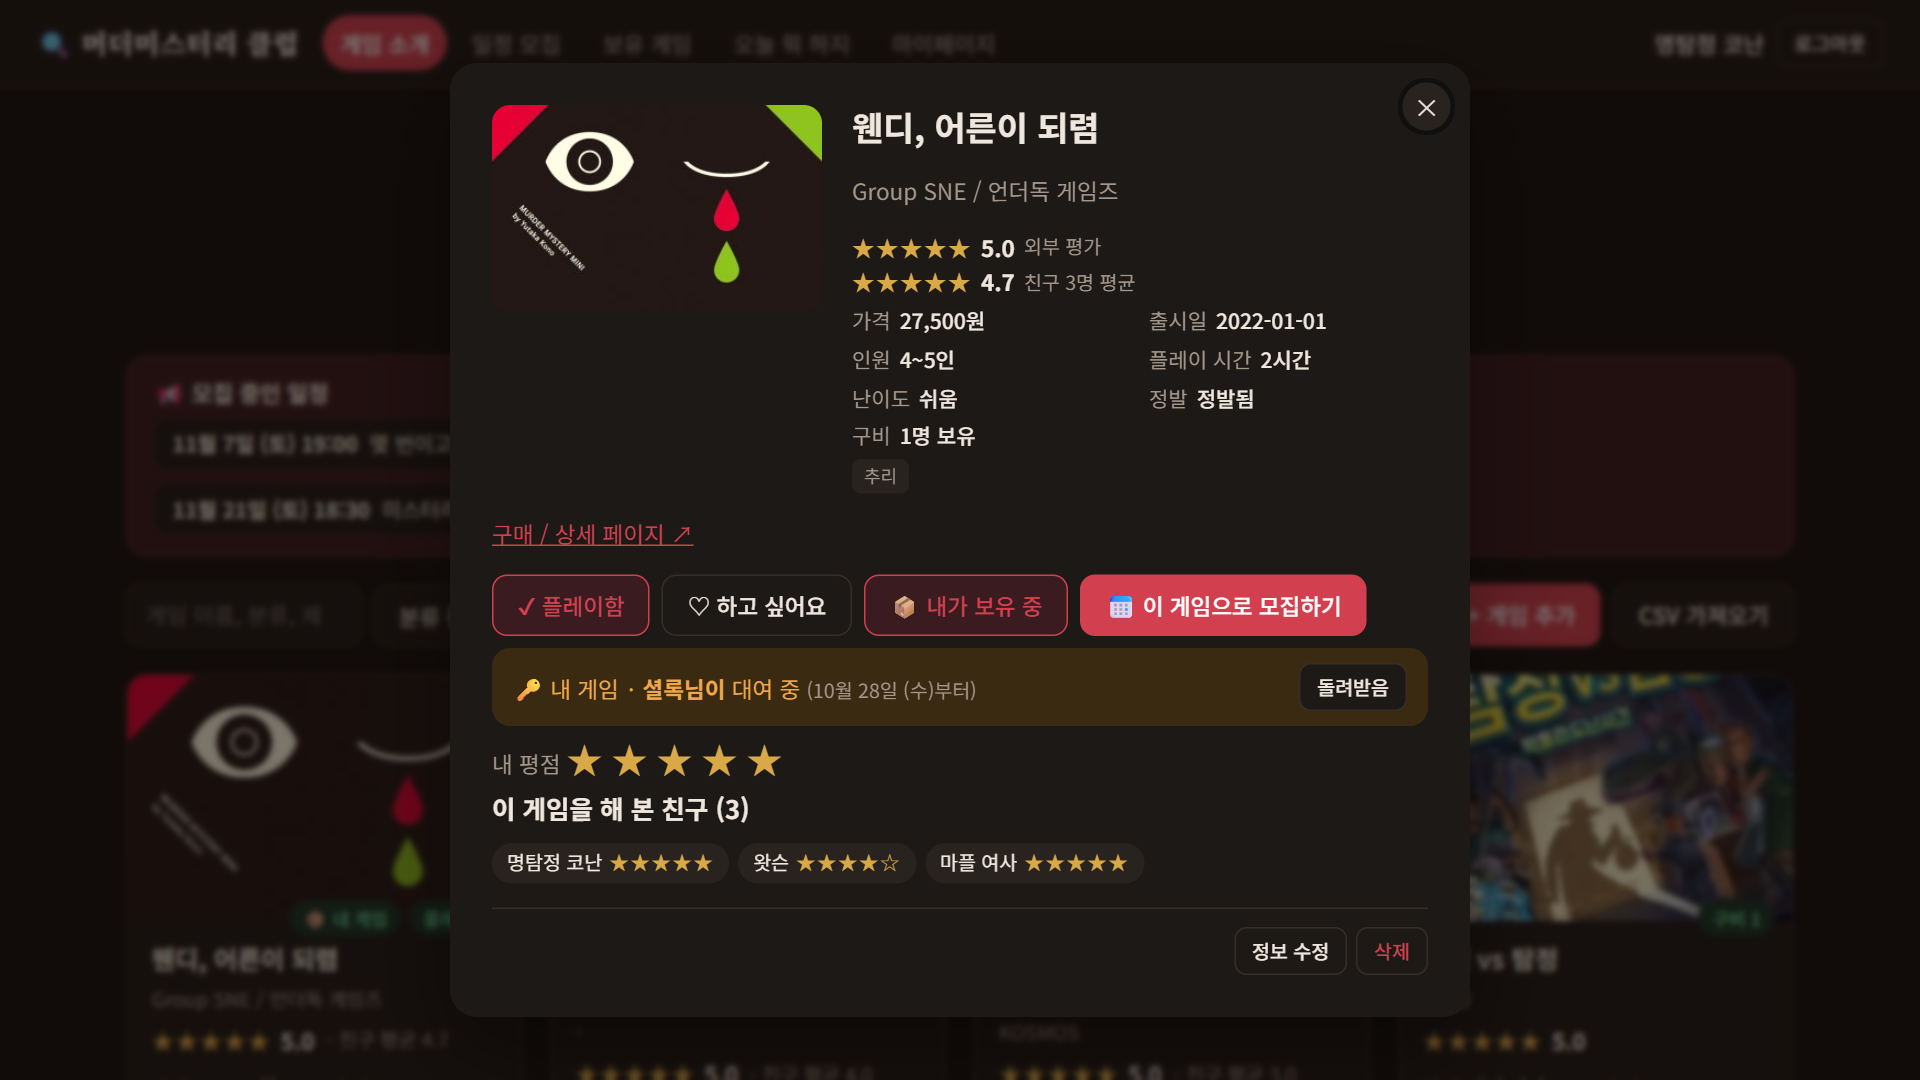
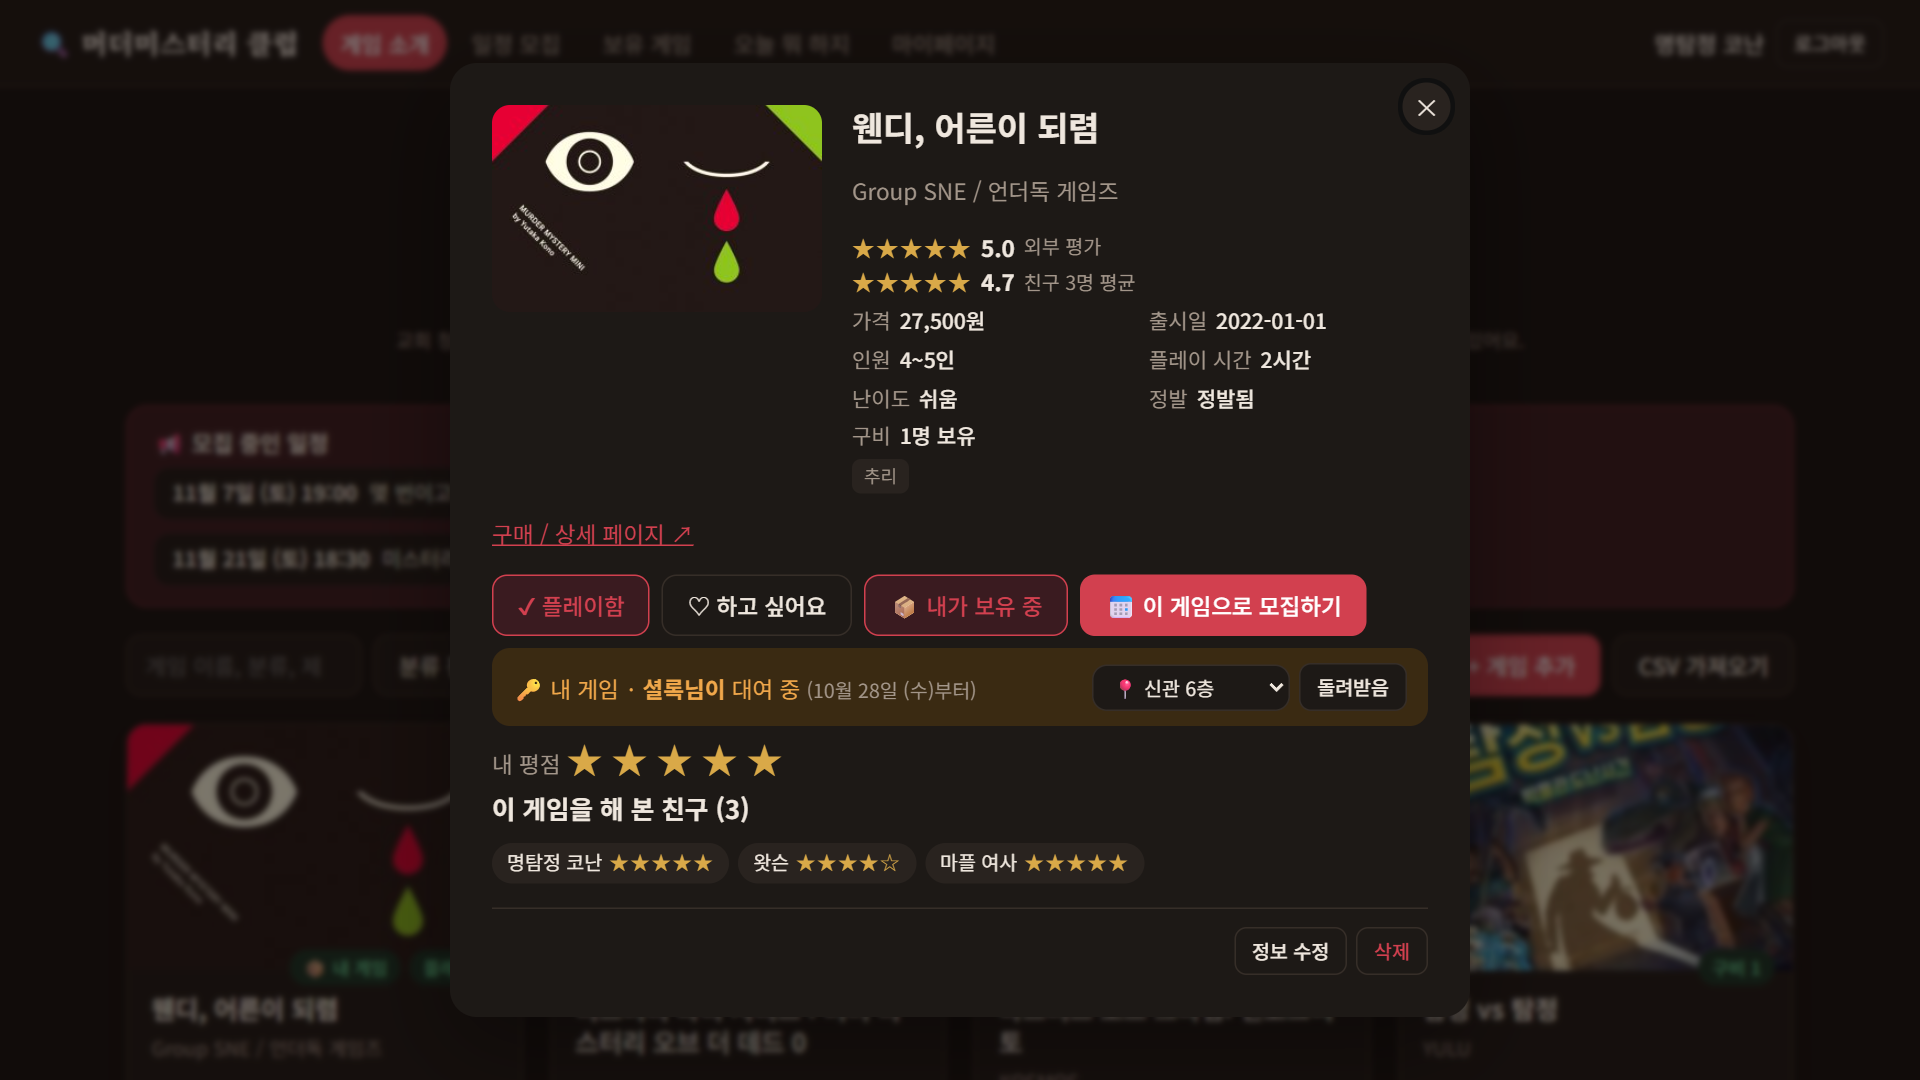
Refresh feature docs and screenshots for storage places and the audience note
Retake the games, detail and library screenshots with demo storage
locations, re-place their guide pins, describe the storage picker and
per-place counts and the invite-only audience line, and mark the PRD's
owned-games question as answered.

diff --git a/feature-guide.html b/feature-guide.html
@@ -189,23 +189,23 @@ footer a { color: var(--ink); }
         <div class="frame-bar"><i></i><i></i><i></i><span>mahamuder.web.app/games</span></div>
         <div class="shot">
           <img src="shots/games.png" alt="게임 소개 화면: 모집 중인 일정 배너, 검색과 필터, 게임 카드 목록" width="1920" height="1080">
-          <span class="pin" style="left:8.5%;top:36.3%">1</span>
-          <span class="pin" style="left:7%;top:56.9%">2</span>
-          <span class="pin" style="left:35.3%;top:57%">3</span>
-          <span class="pin" style="left:79.2%;top:56.9%">4</span>
-          <span class="pin" style="left:88.7%;top:56.9%">5</span>
-          <span class="pin" style="left:18%;top:85%">6</span>
-          <span class="pin" style="left:20.1%;top:96.3%">7</span>
+          <span class="pin" style="left:21%;top:31.5%">1</span>
+          <span class="pin" style="left:8.5%;top:40.9%">2</span>
+          <span class="pin" style="left:7%;top:61.5%">3</span>
+          <span class="pin" style="left:35.3%;top:61.6%">4</span>
+          <span class="pin" style="left:79.2%;top:61.5%">5</span>
+          <span class="pin" style="left:88.7%;top:61.5%">6</span>
+          <span class="pin" style="left:18%;top:89.6%">7</span>
         </div>
       </div>
       <ol class="notes">
+        <li><div><b>누구를 위한 사이트인지</b><span>교회 청년 모임 친구들끼리 쓰는 초대제 사이트라는 안내. 게임 정보는 누구나, 기록·일정·대여는 초대받은 회원만 써요.</span></div></li>
         <li><div><b>모집 중인 일정</b><span>다가오는 모임이 맨 위에 떠요. 누르면 공지로 이동해요.</span></div></li>
         <li><div><b>검색·필터·정렬</b><span>이름·분류·제작사 검색, 분류·인원·구비·정발 필터, 평점순·최신순·가격순·친구 플레이순·이름순. 인원에는 10명 이상·인원 미정도 있어요.</span></div></li>
         <li><div><b>분류 안내</b><span>머더미스터리(역할극)·추리(협력 추리)·소셜 디덕션(마피아류). 배경 태그는 스포일러라 보여 주지 않아요.</span></div></li>
         <li><div><b>게임 추가</b><span>회원은 누구나 새 게임을 등록할 수 있어요.</span></div></li>
         <li><div><b>CSV 가져오기</b><span>게임 목록 CSV에서 사이트에 없는 게임만 골라 한꺼번에 등록해요.</span></div></li>
-        <li><div><b>내 상태 배지</b><span>내 게임·플레이함·선호·구비 수가 표지 위에 붙어요.</span></div></li>
-        <li><div><b>외부 평가와 친구 평균</b><span>별점 옆에 친구들이 매긴 평균이 함께 보여요.</span></div></li>
+        <li><div><b>내 상태 배지 · 친구 평균</b><span>내 게임·플레이함·선호·구비 수가 표지 위에 붙고, 카드 아래 별점 옆에 친구들이 매긴 평균이 함께 보여요.</span></div></li>
       </ol>
     </div>
   </section>
@@ -227,10 +227,11 @@ footer a { color: var(--ink); }
           <span class="pin" style="left:45.9%;top:44.1%">3</span>
           <span class="pin" style="left:29.7%;top:56%">4</span>
           <span class="pin" style="left:63.7%;top:56%">5</span>
-          <span class="pin" style="left:70.5%;top:63.6%">6</span>
-          <span class="pin" style="left:42.5%;top:70.6%">7</span>
-          <span class="pin" style="left:26.1%;top:74.9%">8</span>
-          <span class="pin" style="left:67.2%;top:88%">9</span>
+          <span class="pin" style="left:36%;top:63.7%">6</span>
+          <span class="pin" style="left:62%;top:63.7%">7</span>
+          <span class="pin" style="left:42.5%;top:70.6%">8</span>
+          <span class="pin" style="left:26.1%;top:74.9%">9</span>
+          <span class="pin" style="left:67.2%;top:88%">10</span>
         </div>
       </div>
       <ol class="notes">
@@ -240,6 +241,7 @@ footer a { color: var(--ink); }
         <li><div><b>플레이함 · 하고 싶어요 · 보유</b><span>한 번 눌러 내 기록에 남겨요.</span></div></li>
         <li><div><b>이 게임으로 모집하기</b><span>바로 모집 공지 작성으로 넘어가요.</span></div></li>
         <li><div><b>대여 상태</b><span>내 게임인지, 지금 빌릴 수 있는지, 누가 언제부터 빌려 갔는지. 주인은 돌려받음으로 정리해요.</span></div></li>
+        <li><div><b>보관 위치</b><span>그 게임을 교회 어디에 두었는지(신관 5층 · 신관 6층 · 본관 3층, 직접 입력도 가능). 옮겼다면 회원 누구나 바로 바꿔요.</span></div></li>
         <li><div><b>내 평점</b><span>별 다섯 개로 매겨요.</span></div></li>
         <li><div><b>이 게임을 해 본 친구</b><span>누가 해 봤고 몇 점을 줬는지. 같이 할 사람을 고를 때 참고해요.</span></div></li>
         <li><div><b>정보 수정 · 삭제</b><span>수정은 회원 누구나, 삭제는 등록한 사람만. 기록이나 공지가 걸린 게임은 지울 수 없어요.</span></div></li>
@@ -287,24 +289,28 @@ footer a { color: var(--ink); }
       <div class="label">Screen 04</div>
       <h2>보유 게임과 대여</h2>
       <p class="route">/library</p>
-      <p>누가 어떤 게임을 가졌고 지금 누가 빌려 갔는지 한눈에 봐요.</p>
+      <p>누가 어떤 게임을 가졌고, 교회 어디에 두었고, 지금 누가 빌려 갔는지 한눈에 봐요.</p>
     </div>
     <div class="screen" data-screen>
       <div class="frame">
         <div class="frame-bar"><i></i><i></i><i></i><span>mahamuder.web.app/library</span></div>
         <div class="shot">
-          <img src="shots/library.png" alt="보유 게임 화면: 요약 숫자, 대여 중 목록, 친구별 보유 목록" width="1920" height="1080">
+          <img src="shots/library.png" alt="보유 게임 화면: 요약 숫자, 위치별 개수, 대여 중 목록과 원래 위치, 친구별 보유 목록" width="1920" height="1080">
           <span class="pin" style="left:39.5%;top:36.9%">1</span>
-          <span class="pin" style="left:8.7%;top:50.7%">2</span>
-          <span class="pin" style="left:88.2%;top:69.3%">3</span>
-          <span class="pin" style="left:59.8%;top:90.8%">4</span>
-          <span class="pin" style="left:86.9%;top:90.8%">5</span>
-          <span class="pin" style="left:21.2%;top:95.9%">6</span>
+          <span class="pin" style="left:8.7%;top:42.8%">2</span>
+          <span class="pin" style="left:8.7%;top:54.9%">3</span>
+          <span class="pin" style="left:74.2%;top:66.7%">4</span>
+          <span class="pin" style="left:88.2%;top:73.4%">5</span>
+          <span class="pin" style="left:60.7%;top:95%">6</span>
+          <span class="pin" style="left:86.9%;top:95%">7</span>
+          <span class="pin" style="left:8.7%;top:94.5%">8</span>
         </div>
       </div>
       <ol class="notes">
         <li><div><b>요약</b><span>보유 게임 · 대여 가능 · 대여 중 · 내가 빌린 게임 수.</span></div></li>
+        <li><div><b>위치별 개수</b><span>지금 교회 어디에 몇 개가 있는지. 빌려 간 게임은 빼고 세요.</span></div></li>
         <li><div><b>대여 중 목록</b><span>게임, 주인, 빌린 사람, 대여일과 며칠째인지.</span></div></li>
+        <li><div><b>보관 위치</b><span>원래 두는 곳. 게임을 옮겼다면 📍를 눌러 회원 누구나 바꿔요. 아래 친구별 목록에도 같은 칸이 있어요.</span></div></li>
         <li><div><b>반납하기 · 돌려받음</b><span>빌린 사람은 반납, 주인은 돌려받음으로 정리해요.</span></div></li>
         <li><div><b>내 보유 게임 추가</b><span>검색해서 가진 게임을 빠르게 골라요.</span></div></li>
         <li><div><b>미등록 친구 추가</b><span>가입하지 않은 친구의 게임도 등록해 빌릴 수 있게 해요.</span></div></li>

diff --git a/feature-overview.html b/feature-overview.html
@@ -111,7 +111,7 @@ footer { margin-top: 64px; color: var(--muted); font-size: 13px; border-top: 1px
 
   <section id="games">
     <h2>📚 게임 소개 <code>/games</code></h2>
-    <p class="lead">우리끼리 해 본, 하고 싶은 머더미스터리 게임 모음이에요.</p>
+    <p class="lead">우리끼리 해 본, 하고 싶은 머더미스터리 게임 모음이에요. 제목 아래에 “교회 청년 모임 친구들끼리 쓰는 초대제 사이트”라는 안내가 있어서 처음 온 사람도 누구를 위한 곳인지 알 수 있어요.</p>
     <div class="grid">
       <div class="card">
         <h3>검색과 필터</h3>
@@ -134,7 +134,7 @@ footer { margin-top: 64px; color: var(--muted); font-size: 13px; border-top: 1px
         <ul>
           <li>표지, 인원, 플레이 시간, 난이도, 가격, 출시일, 외부 평가</li>
           <li>친구들의 플레이 기록과 평점</li>
-          <li>누가 가지고 있는지, 지금 대여 중인지</li>
+          <li>누가 가지고 있는지, 교회 어디에 두었는지, 지금 대여 중인지</li>
         </ul>
       </div>
       <div class="card">
@@ -202,8 +202,17 @@ footer { margin-top: 64px; color: var(--muted); font-size: 13px; border-top: 1px
 
   <section id="library">
     <h2>📦 보유 게임과 대여 <code>/library</code></h2>
-    <p class="lead">친구들이 가진 게임과 대여 현황을 한눈에 봐요.</p>
+    <p class="lead">친구들이 가진 게임을 교회 어디에 두었는지, 지금 누가 빌려 갔는지 한눈에 봐요.</p>
     <div class="grid">
+      <div class="card">
+        <h3>보관 위치</h3>
+        <ul>
+          <li>게임 한 벌마다 📍 신관 5층 · 신관 6층 · 본관 3층, 또는 직접 입력</li>
+          <li>옮겼다면 회원 누구나 바로 바꿔요(게임 상세에서도 가능)</li>
+          <li>보유를 켜면 그 사람이 가장 많이 쓴 위치가 자동으로 들어가요</li>
+          <li>위에 위치별 개수가 보여요(빌려 간 게임은 빼고)</li>
+        </ul>
+      </div>
       <div class="card">
         <h3>친구별 보유 목록</h3>
         <p>회원과, 가입하지 않은 친구(<b>미등록 친구</b>)까지 누가 어떤 게임을 가졌는지 모아 봐요.</p>

diff --git a/README.md b/README.md
@@ -28,6 +28,7 @@ flowchart LR
 
 로그인하지 않아도 볼 수 있습니다. 위의 첫 스크린샷이 이 화면입니다.
 
+- **누구를 위한 사이트인지**: 제목 아래에 "교회 청년 모임 친구들끼리 쓰는 초대제 사이트"라는 안내가 있습니다(검색용 설명·FAQ에는 넣지 않음).
 - **모집 중인 일정**: 다가오는 모임이 맨 위에 보이고, 누르면 공지로 이동합니다.
 - **분류**: 게임마다 머더미스터리(역할극)·추리(협력 추리)·소셜 디덕션(마피아류) 중 하나가 붙습니다. 배경·세계관 태그는 스포일러가 될 수 있어서 보여 주지 않고, 분류 옆 **?** 버튼으로 세 분류의 뜻을 볼 수 있습니다.
 - **검색·필터·정렬**: 이름·분류·제작사로 검색하고, 분류·인원·구비·정발 여부로 거르고, 평점순·최신순·가격순·친구 플레이순·이름순으로 정렬합니다. 인원 필터에는 "10명 이상"과, 인원 정보가 없는 게임만 모아 보는 "인원 미정"이 있습니다.
@@ -44,6 +45,7 @@ flowchart LR
 - **플레이함 · 하고 싶어요 · 보유** 버튼으로 내 기록 남기기, 별 다섯 개로 내 평점 매기기
 - **이 게임으로 모집하기**로 바로 모집 공지 작성
 - 대여 상태: 내 게임인지, 지금 빌릴 수 있는지, 누가 빌려 갔는지
+- 📍 보관 위치: 보유자마다 그 게임을 교회 어디에 두었는지. 옮겼다면 회원 누구나 바로 바꿉니다.
 - 이 게임을 해 본 친구와 각자의 평점
 - 정보 수정은 회원 누구나, 삭제는 등록한 사람만 (플레이 기록·보유자·모집 공지가 걸린 게임은 삭제 불가)
 
@@ -64,12 +66,13 @@ flowchart LR
 
 ### 📦 보유 게임과 대여 `/library`
 
-누가 어떤 게임을 가졌고 지금 누가 빌려 갔는지 한눈에 봅니다.
+누가 어떤 게임을 가졌고, 교회 어디에 두었고, 지금 누가 빌려 갔는지 한눈에 봅니다.
 
 ![보유 게임 화면](shots/library.png)
 
-- 요약: 보유 게임 · 대여 가능 · 대여 중 · 내가 빌린 게임 수
-- 대여 중 목록: 게임, 주인, 빌린 사람, 대여일과 며칠째인지. 빌린 사람은 **반납하기**, 주인은 **돌려받음**
+- 요약: 보유 게임 · 대여 가능 · 대여 중 · 내가 빌린 게임 수, 그 아래 위치별 개수(빌려 간 게임은 빼고 셈)
+- 대여 중 목록: 게임, 주인, 빌린 사람, 대여일과 며칠째인지, 원래 위치. 빌린 사람은 **반납하기**, 주인은 **돌려받음**
+- **📍 보관 위치**: 게임 한 벌마다 신관 5층 · 신관 6층 · 본관 3층 중에서 고르거나 직접 적습니다. 회원 누구나 바꿀 수 있고, 보유를 켜면 그 사람이 가장 많이 쓴 위치가 자동으로 들어갑니다.
 - **내 보유 게임 추가**: 검색으로 가진 게임을 골라 등록
 - **미등록 친구 추가**: 가입하지 않은 친구의 게임도 등록해 빌릴 수 있게 함
 - 친구별 보유 목록을 사람마다 걸러 보기

diff --git a/docs/PRD-2026-10-friend-feedback.md b/docs/PRD-2026-10-friend-feedback.md
@@ -114,5 +114,5 @@
 ## 7. 열린 질문 (피드백에서 나왔지만 범위 밖)
 
 1. **사용자층 안내**: "이용자가 누구지? 교회 청년들? 모든 시민?"이라는 질문이 먼저 나왔습니다. 첫 화면에 "교회 청년 모임 친구들끼리 쓰는 초대제 사이트"라는 한 줄을 넣을지. → 게임 목록 첫 화면 제목 아래에만 넣음(SEO 설명·FAQ에는 넣지 않음, 2026-11-04).
-2. **보유 게임의 의미**: 보유 게임 목록을 보고 "교회 어디 장소에 따로 보관해야 하나?"라고 물었습니다. 보유 = 각자 집에 두고 모임 때 빌려 주는 것이라는 설명을 `/library` 상단에 넣을지, 보관 장소 필드가 필요한지.
+2. **보유 게임의 의미**: 보유 게임 목록을 보고 "교회 어디 장소에 따로 보관해야 하나?"라고 물었습니다. 보유 = 각자 집에 두고 모임 때 빌려 주는 것이라는 설명을 `/library` 상단에 넣을지, 보관 장소 필드가 필요한지. → 보유자별 보관 위치(`storage`, 예: "신관 6층")를 넣어 게임 상세·보유 게임 화면에 보여 주고 회원 누구나 바꿀 수 있게 함(2026-11-04).
 3. ~~**분류 소개 위치**: 툴팁으로 충분한지, FAQ나 별도 안내 항목으로 키울지.~~ → 툴팁(분류 안내 창)만 유지하기로 함(2026-11-04).
